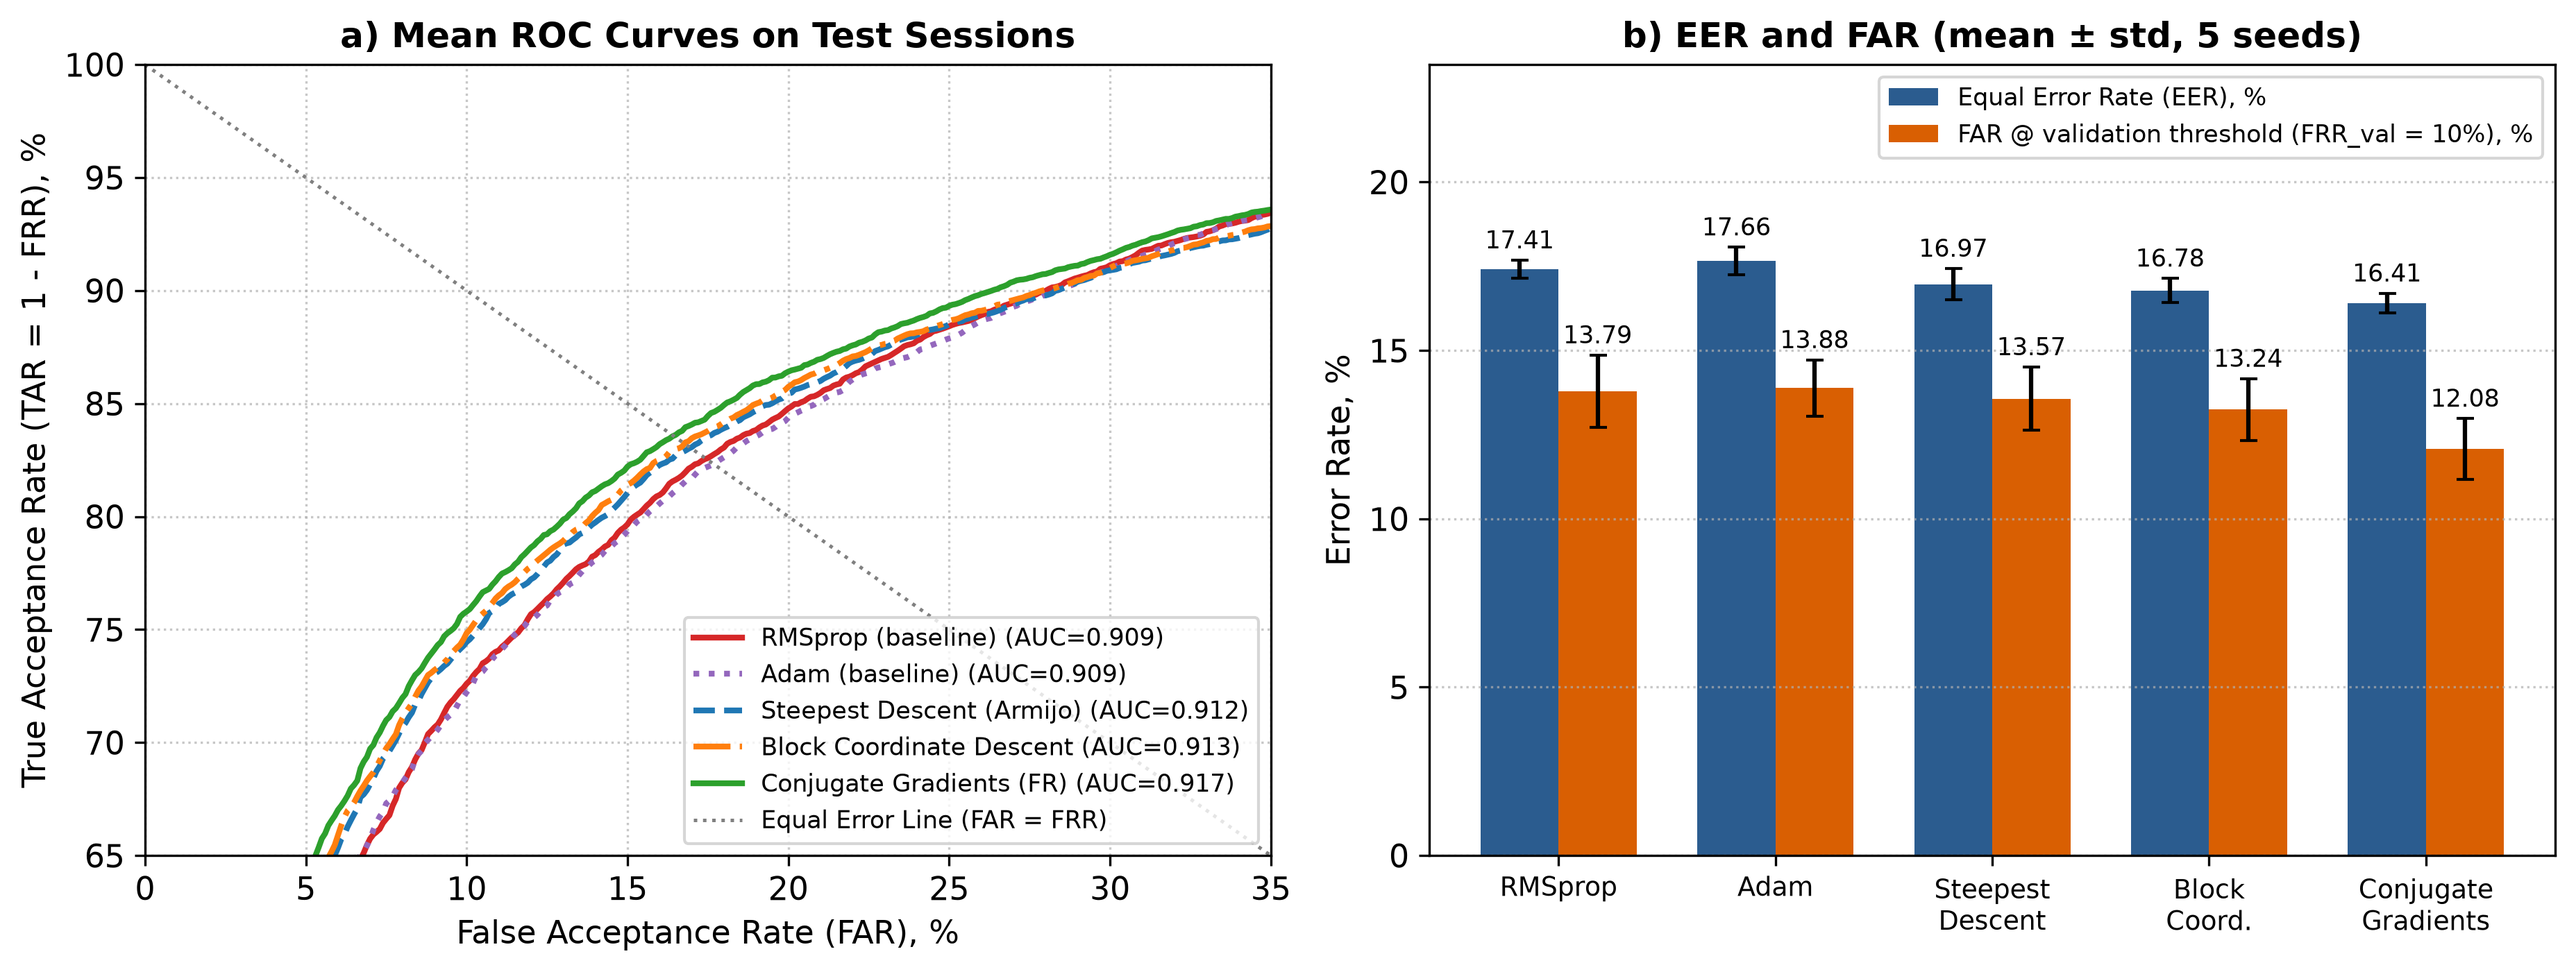
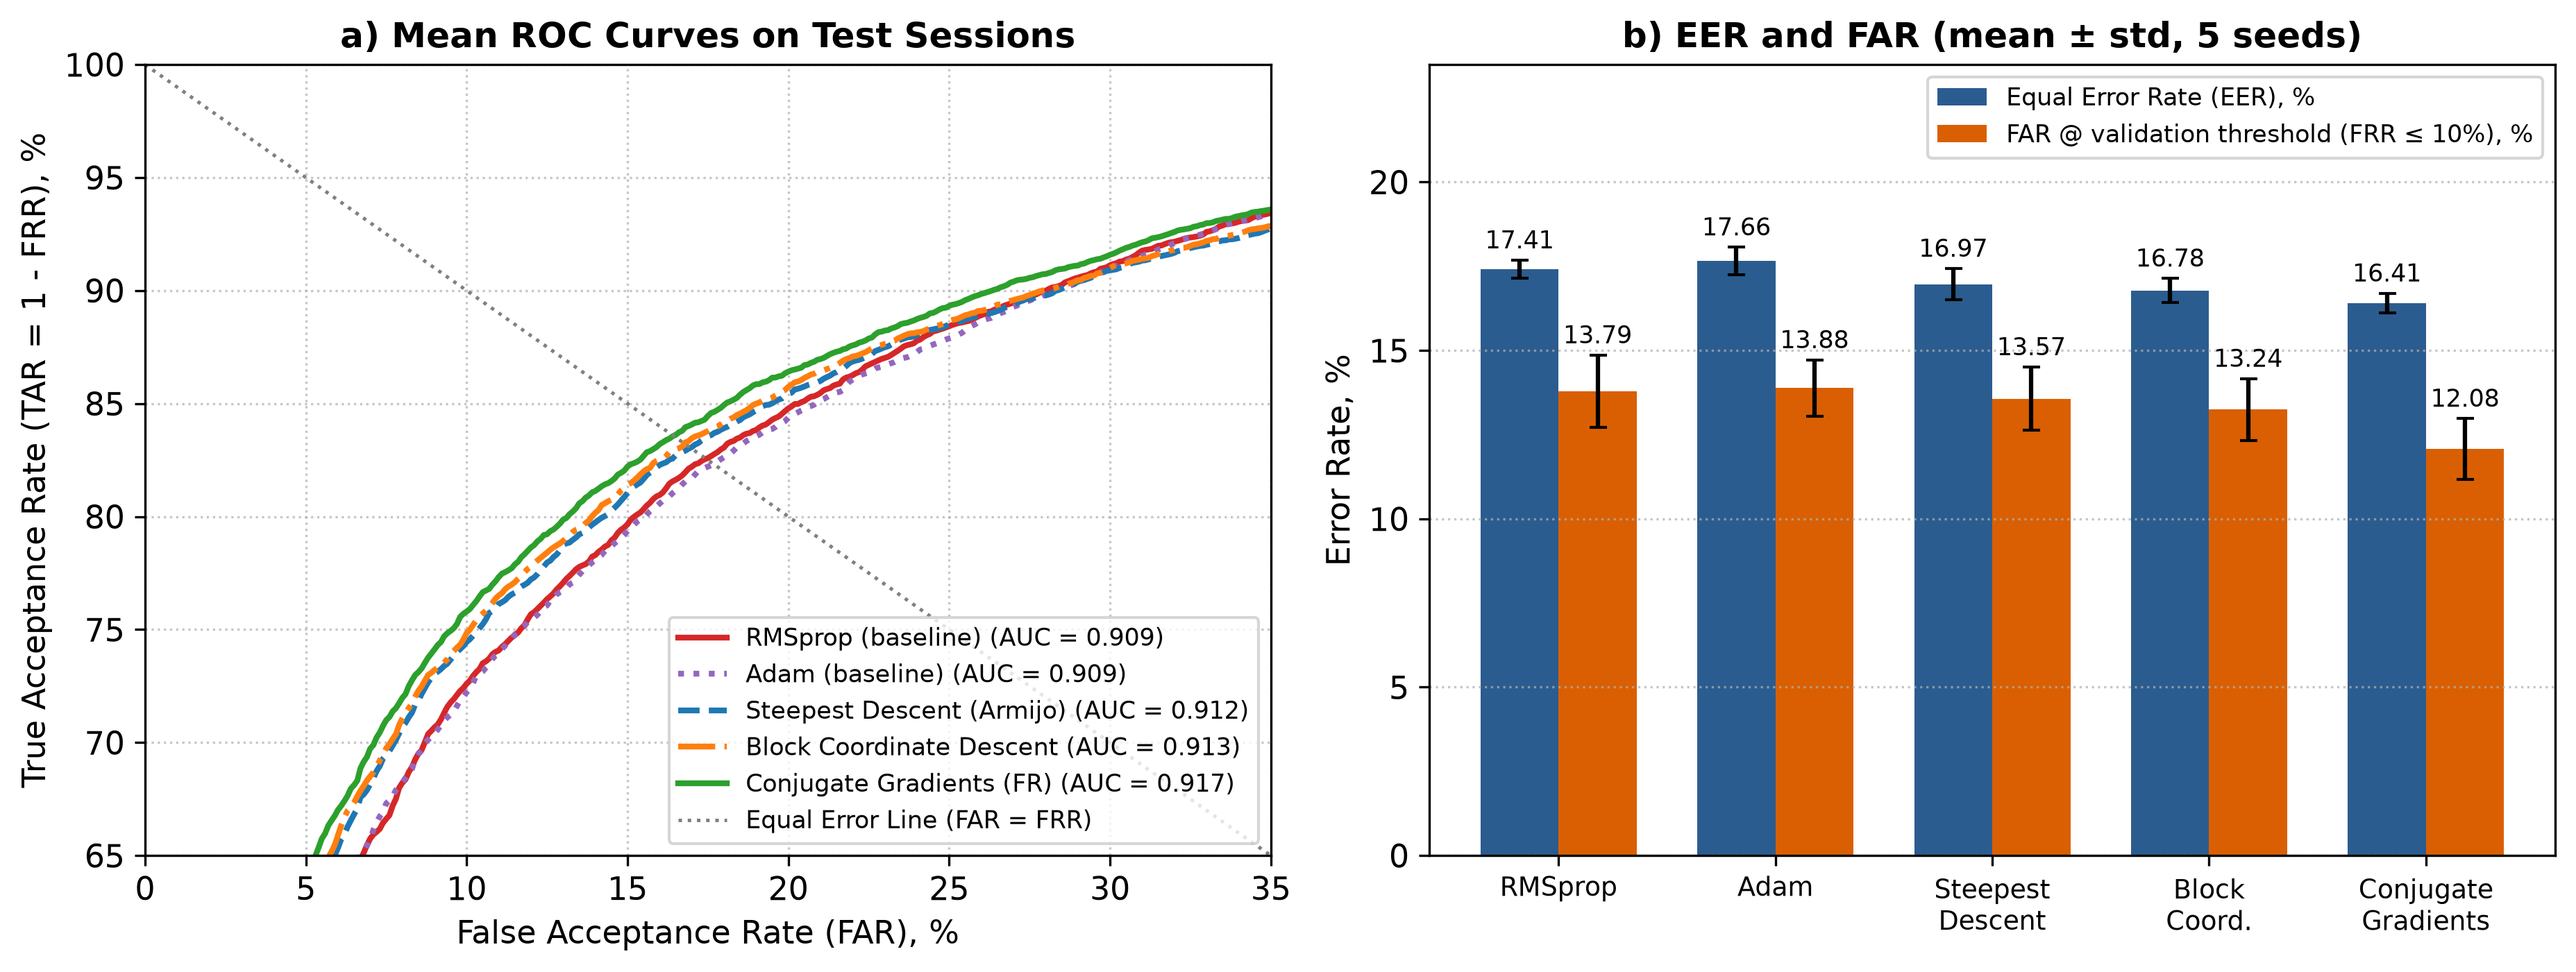
Format Russian figure numbers with decimal commas and clean FRR threshold label

Changed region(s): [[0.2479, 0.6445, 0.4648, 0.8594], [0.7127, 0.0921, 0.9297, 0.1535]]

diff --git a/run_experiments.py b/run_experiments.py
@@ -103,6 +103,9 @@ def generate_multiseed_figures(multi_runs: dict, aggregate: dict, out_dir: Path,
         ax.set_xticks(range(2, n_ep + 1, 2))
         ax.grid(True, linestyle=":", alpha=0.7)
         ax.legend(loc=loc, frameon=True, fontsize=8.5)
+    if ru:
+        from matplotlib.ticker import FuncFormatter
+        ax1.yaxis.set_major_formatter(FuncFormatter(lambda y, _: f"{y:.2f}".replace(".", ",")))
     fig.tight_layout()
     fig.savefig(out_dir / "fig1_convergence_loss_acc.png", dpi=300, bbox_inches="tight")
     plt.close(fig)
@@ -112,8 +115,9 @@ def generate_multiseed_figures(multi_runs: dict, aggregate: dict, out_dir: Path,
     for k in order:
         col, mk, ls = styles[k]
         T = np.array([multi_runs[sd][k]["roc_tpr_on_fpr_grid"] for sd in seeds]) * 100.0
+        auc_txt = f"{aggregate[k]['roc_auc_mean']:.3f}".replace(".", ",") if ru else f"{aggregate[k]['roc_auc_mean']:.3f}"
         ax1.plot(fpr, T.mean(0), color=col, linestyle=ls, linewidth=2.0,
-                 label=f"{labels[k]} (AUC={aggregate[k]['roc_auc_mean']:.3f})")
+                 label=f"{labels[k]} (AUC = {auc_txt})")
     ax1.plot([0, 100], [100, 0], color="gray", linestyle=":", linewidth=1.2,
              label="Линия равной ошибки (FAR = FRR)" if ru else "Equal Error Line (FAR = FRR)")
     ax1.set_xlim(0, 35)
@@ -133,10 +137,11 @@ def generate_multiseed_figures(multi_runs: dict, aggregate: dict, out_dir: Path,
     b1 = ax2.bar(x - w / 2, eer_m, w, yerr=eer_s, capsize=3, color="#2b5c8f",
                  label="Равная ошибка (EER), %" if ru else "Equal Error Rate (EER), %")
     b2 = ax2.bar(x + w / 2, far_m, w, yerr=far_s, capsize=3, color="#d95f02",
-                 label="Ложный допуск (FAR), порог FRR_val = 10 %" if ru else "FAR @ validation threshold (FRR_val = 10%), %")
+                 label="Ложный допуск (FAR при FRR ≤ 10 % на валидации), %" if ru else "FAR @ validation threshold (FRR ≤ 10%), %")
     for bars, vals, errs in ((b1, eer_m, eer_s), (b2, far_m, far_s)):
         for bar, v, e in zip(bars, vals, errs):
-            ax2.annotate(f"{v:.2f}", xy=(bar.get_x() + bar.get_width() / 2, v + e), xytext=(0, 2),
+            val_txt = f"{v:.2f}".replace(".", ",") if ru else f"{v:.2f}"
+            ax2.annotate(val_txt, xy=(bar.get_x() + bar.get_width() / 2, v + e), xytext=(0, 2),
                          textcoords="offset points", ha="center", va="bottom", fontsize=8.5)
     ax2.set_xticks(x)
     ax2.set_xticklabels([bar_labels[k] for k in order], fontsize=9)
